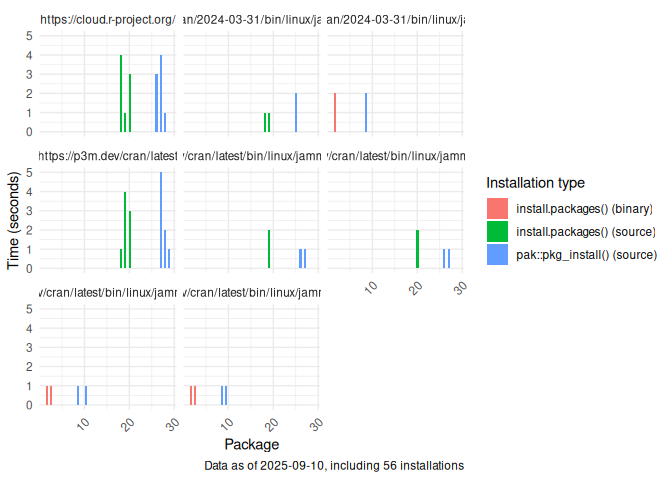
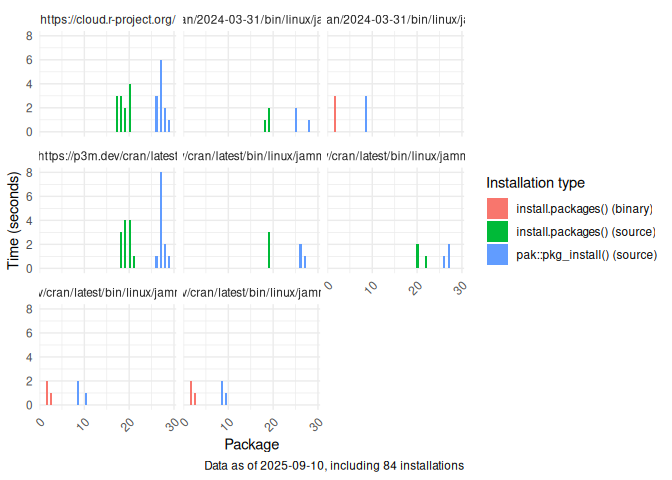
Add package installation summary

diff --git a/README.md b/README.md
@@ -17,27 +17,27 @@ The following table shows the distribution of the installations so far:
 
 |                                                             | source |
 |:------------------------------------------------------------|-------:|
-| https://cloud.r-project.org/                                |      8 |
-| https://p3m.dev/cran/2024-03-31/bin/linux/jammy-aarch64/4.4 |      2 |
-| https://p3m.dev/cran/2024-03-31/bin/linux/jammy-x86_64/4.4  |      2 |
-| https://p3m.dev/cran/latest                                 |      8 |
-| https://p3m.dev/cran/latest/bin/linux/jammy-aarch64/4.4     |      2 |
-| https://p3m.dev/cran/latest/bin/linux/jammy-aarch64/4.5     |      2 |
-| https://p3m.dev/cran/latest/bin/linux/jammy-x86_64/4.4      |      2 |
-| https://p3m.dev/cran/latest/bin/linux/jammy-x86_64/4.5      |      2 |
+| https://cloud.r-project.org/                                |     12 |
+| https://p3m.dev/cran/2024-03-31/bin/linux/jammy-aarch64/4.4 |      3 |
+| https://p3m.dev/cran/2024-03-31/bin/linux/jammy-x86_64/4.4  |      3 |
+| https://p3m.dev/cran/latest                                 |     12 |
+| https://p3m.dev/cran/latest/bin/linux/jammy-aarch64/4.4     |      3 |
+| https://p3m.dev/cran/latest/bin/linux/jammy-aarch64/4.5     |      3 |
+| https://p3m.dev/cran/latest/bin/linux/jammy-x86_64/4.4      |      3 |
+| https://p3m.dev/cran/latest/bin/linux/jammy-x86_64/4.5      |      3 |
 
 Using pak::pkg_install()
 
 |                                                             | binary | source |
 |:------------------------------------------------------------|-------:|-------:|
-| https://cloud.r-project.org/                                |      0 |      8 |
-| https://p3m.dev/cran/2024-03-31/bin/linux/jammy-aarch64/4.4 |      0 |      2 |
-| https://p3m.dev/cran/2024-03-31/bin/linux/jammy-x86_64/4.4  |      2 |      0 |
-| https://p3m.dev/cran/latest                                 |      0 |      8 |
-| https://p3m.dev/cran/latest/bin/linux/jammy-aarch64/4.4     |      0 |      2 |
-| https://p3m.dev/cran/latest/bin/linux/jammy-aarch64/4.5     |      0 |      2 |
-| https://p3m.dev/cran/latest/bin/linux/jammy-x86_64/4.4      |      2 |      0 |
-| https://p3m.dev/cran/latest/bin/linux/jammy-x86_64/4.5      |      2 |      0 |
+| https://cloud.r-project.org/                                |      0 |     12 |
+| https://p3m.dev/cran/2024-03-31/bin/linux/jammy-aarch64/4.4 |      0 |      3 |
+| https://p3m.dev/cran/2024-03-31/bin/linux/jammy-x86_64/4.4  |      3 |      0 |
+| https://p3m.dev/cran/latest                                 |      0 |     12 |
+| https://p3m.dev/cran/latest/bin/linux/jammy-aarch64/4.4     |      0 |      3 |
+| https://p3m.dev/cran/latest/bin/linux/jammy-aarch64/4.5     |      0 |      3 |
+| https://p3m.dev/cran/latest/bin/linux/jammy-x86_64/4.4      |      3 |      0 |
+| https://p3m.dev/cran/latest/bin/linux/jammy-x86_64/4.5      |      3 |      0 |
 
 Using install.packages()
 
